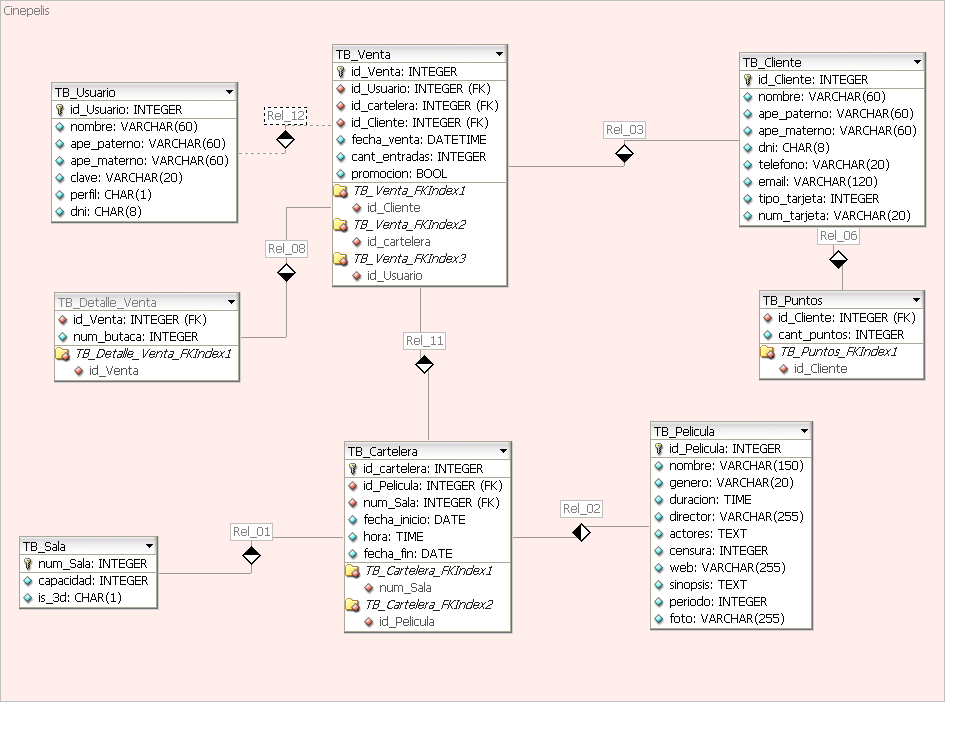
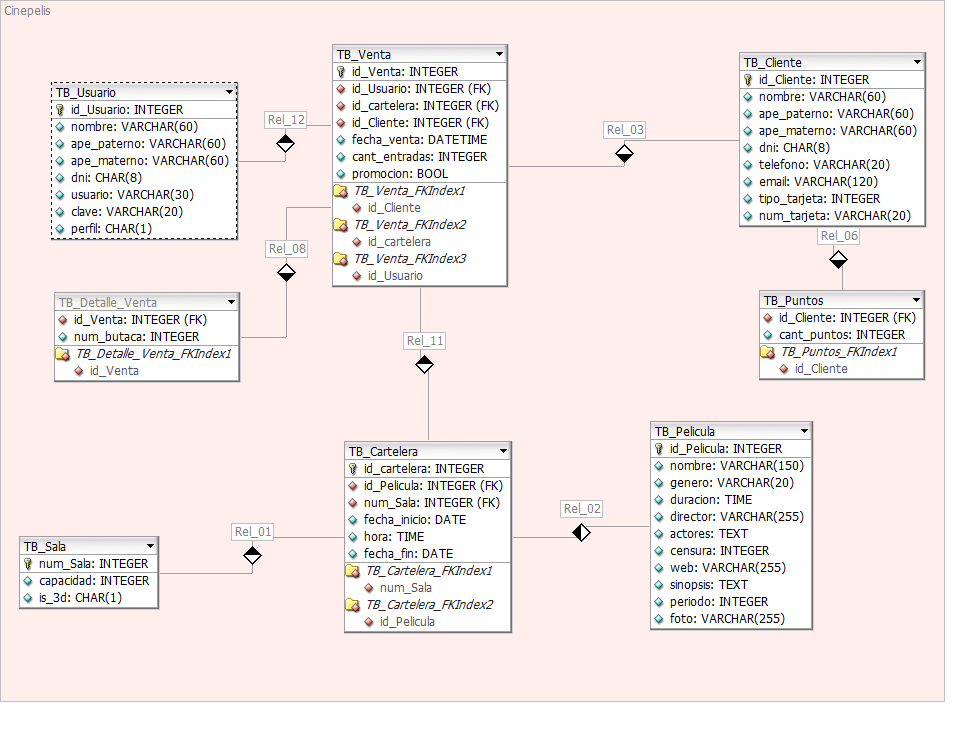
Mejorar en la BD y DAO de Usuario

diff --git a/proyecto/src/java/edu/upc/dew/cinepelis/model/UsuarioBean.java b/proyecto/src/java/edu/upc/dew/cinepelis/model/UsuarioBean.java
@@ -1,0 +1,119 @@
+/*
+ * To change this template, choose Tools | Templates
+ * and open the template in the editor.
+ */
+
+package edu.upc.dew.cinepelis.model;
+
+/**
+ *
+ * @author Alyssa
+ */
+
+/*
+ * CREATE TABLE TB_Usuario (
+  id_Usuario INTEGER UNSIGNED NOT NULL AUTO_INCREMENT,
+  nombre VARCHAR(60) NOT NULL,
+  ape_paterno VARCHAR(60) NOT NULL,
+  ape_materno VARCHAR(60) NOT NULL,
+  dni CHAR(8) NOT NULL,
+  usuario VARCHAR(30) NOT NULL,
+  clave VARCHAR(20) NOT NULL,
+  perfil CHAR(1) NOT NULL,
+  PRIMARY KEY(id_Usuario)
+);
+ */
+public class UsuarioBean {
+
+    private Long id_usuario;
+    private String nombre;
+    private String ape_paterno;
+    private String ape_materno;
+    private String usuario;
+    private String clave;
+    private String perfil;
+    private String dni;
+
+    public UsuarioBean() {
+    }
+
+    public UsuarioBean(Long id_usuario, String nombre, String ape_paterno, String ape_materno, String usuario, String clave, String perfil, String dni) {
+        this.id_usuario = id_usuario;
+        this.nombre = nombre;
+        this.ape_paterno = ape_paterno;
+        this.ape_materno = ape_materno;
+        this.usuario = usuario;
+        this.clave = clave;
+        this.perfil = perfil;
+        this.dni = dni;
+    }
+
+    public String getApe_materno() {
+        return ape_materno;
+    }
+
+    public void setApe_materno(String ape_materno) {
+        this.ape_materno = ape_materno;
+    }
+
+    public String getApe_paterno() {
+        return ape_paterno;
+    }
+
+    public void setApe_paterno(String ape_paterno) {
+        this.ape_paterno = ape_paterno;
+    }
+
+    public String getClave() {
+        return clave;
+    }
+
+    public void setClave(String clave) {
+        this.clave = clave;
+    }
+
+    public String getDni() {
+        return dni;
+    }
+
+    public void setDni(String dni) {
+        this.dni = dni;
+    }
+
+    public Long getId_usuario() {
+        return id_usuario;
+    }
+
+    public void setId_usuario(Long id_usuario) {
+        this.id_usuario = id_usuario;
+    }
+
+    public String getNombre() {
+        return nombre;
+    }
+
+    public void setNombre(String nombre) {
+        this.nombre = nombre;
+    }
+
+    public String getPerfil() {
+        return perfil;
+    }
+
+    public void setPerfil(String perfil) {
+        this.perfil = perfil;
+    }
+
+    public String getUsuario() {
+        return usuario;
+    }
+
+    public void setUsuario(String usuario) {
+        this.usuario = usuario;
+    }
+
+
+
+
+
+}

diff --git a/proyecto/src/java/edu/upc/dew/cinepelis/dao/ibatisImpl/UsuarioDAOMysql.java b/proyecto/src/java/edu/upc/dew/cinepelis/dao/ibatisImpl/UsuarioDAOMysql.java
@@ -1,0 +1,35 @@
+/*
+ * To change this template, choose Tools | Templates
+ * and open the template in the editor.
+ */
+
+package edu.upc.dew.cinepelis.dao.ibatisImpl;
+
+import edu.upc.dew.cinepelis.dao.ibatis.UsuarioDAO;
+import edu.upc.dew.cinepelis.model.UsuarioBean;
+import java.util.HashMap;
+import java.util.Map;
+import org.springframework.orm.ibatis.support.SqlMapClientDaoSupport;
+
+/**
+ *
+ * @author edison
+ */
+public class UsuarioDAOMysql extends SqlMapClientDaoSupport implements UsuarioDAO{
+    
+
+    public UsuarioBean findUsuarioByLogueo(String usuario, String clave) {
+        try{
+		Map mapa= new HashMap();
+		mapa.put("usuario", usuario);
+		mapa.put("clave", clave);
+		return (UsuarioBean) getSqlMapClientTemplate().queryForObject("findUsuarioByLogueo",mapa);
+			 
+	}catch (Exception e) {
+            e.printStackTrace();
+            System.out.println("Error en el ibatis - method findUsuarioByLogueo()");
+            return null;
+	}
+    }
+
+}

diff --git a/proyecto/src/java/edu/upc/dew/cinepelis/dao/ibatis/UsuarioDAO.java b/proyecto/src/java/edu/upc/dew/cinepelis/dao/ibatis/UsuarioDAO.java
@@ -1,0 +1,18 @@
+/*
+ * To change this template, choose Tools | Templates
+ * and open the template in the editor.
+ */
+
+package edu.upc.dew.cinepelis.dao.ibatis;
+
+import edu.upc.dew.cinepelis.model.UsuarioBean;
+
+/**
+ *
+ * @author edison
+ */
+public interface UsuarioDAO {
+
+     public UsuarioBean findUsuarioByLogueo(String usuario, String clave);
+
+}
